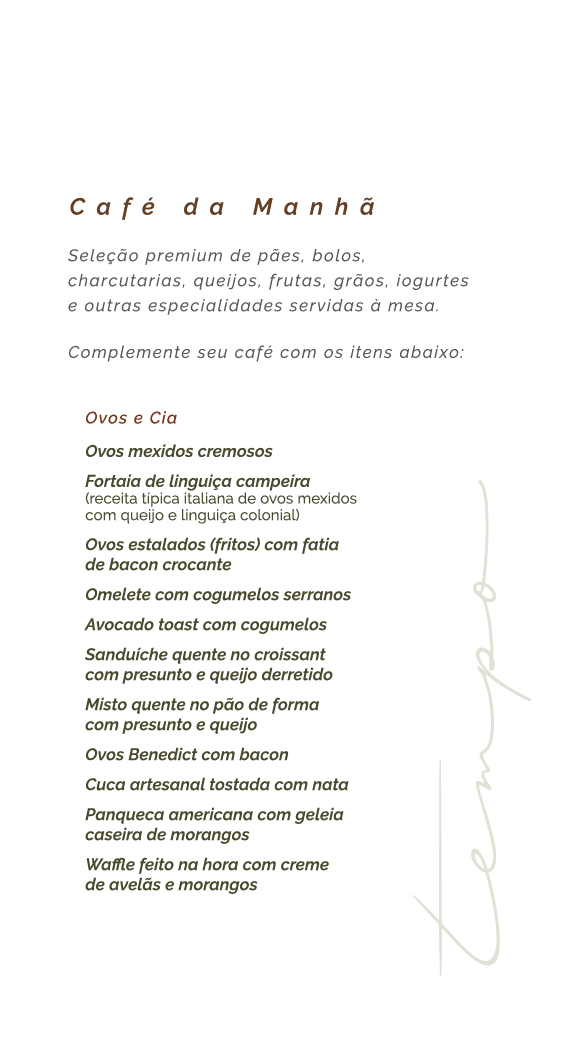
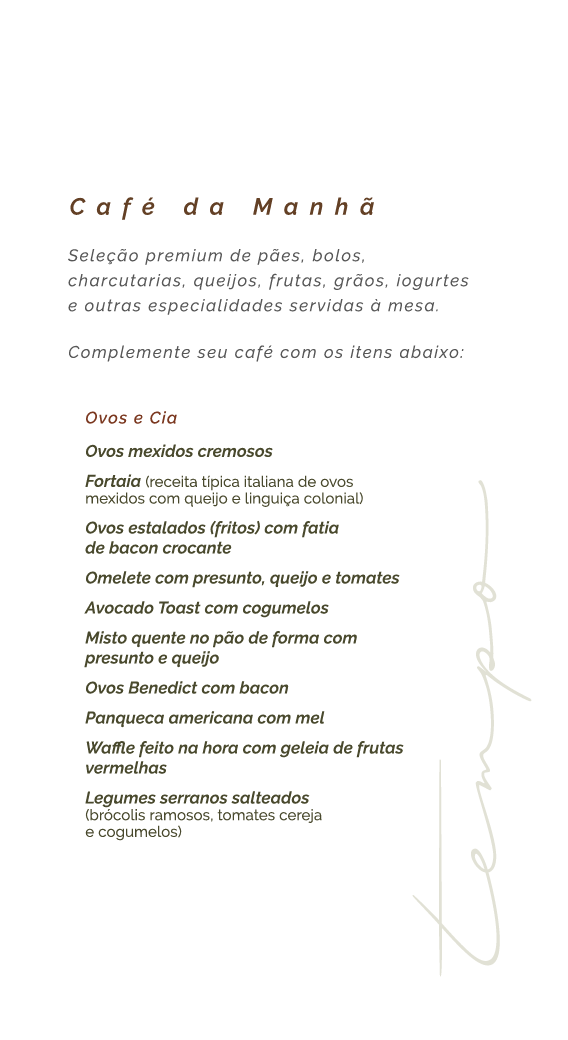
content: revisa cardapio do cafe da manha

Changed region(s): [[0.1496, 0.4615, 0.7183, 0.8615], [0.5088, 0.8308, 0.5687, 0.8615]]

diff --git a/html-completo/assets/js/render-common.js b/html-completo/assets/js/render-common.js
@@ -529,7 +529,7 @@ function renderCardapioSheet(id, title, folder, total) {
   if (document.getElementById(id)) return;
 
   // A revisão também invalida o cache das imagens substituídas nos mesmos caminhos.
-  const imageUrl = page => `assets/cardapios/${folder}/pagina-${page}.webp?v=20261013`;
+  const imageUrl = page => `assets/cardapios/${folder}/pagina-${page}.webp?v=20261016`;
   _appendSheet(id, 'scroll-text', title, `<img src="${imageUrl(1)}" alt="${title} · página 1">`);
   const sheet = document.getElementById(id);
   sheet.classList.add('bottom-sheet--cardapio');
